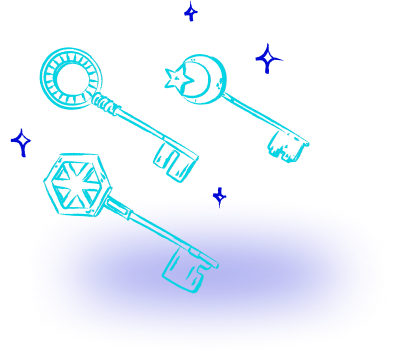
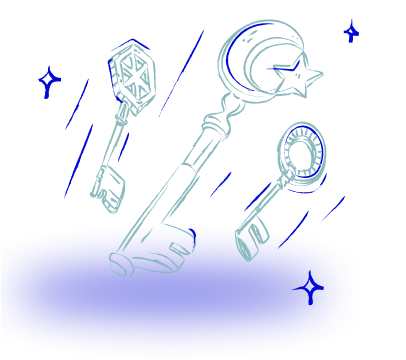
key illustration updated; responsive improves

diff --git a/site/app/page.tsx b/site/app/page.tsx
@@ -61,8 +61,8 @@ export default function Home() {
 
 				{/* <div className="w-full lg:w-4/5 mb-40 m-auto backdrop-blur-md border border-[#30353B] rounded-2xl transform bg-gradient-to-r from-[#3C9AAA]/50 to-transparent transition-all duration-1000 hover:scale-105"> */}
 				<div className="w-full lg:w-4/5 mb-16 md:mb-32 m-auto border border-[#30353B] rounded-2xl transition-all duration-1000 hover:scale-105 backdrop-blur-lg">
-					<div className="w-full flex flex-col-reverse md:flex-row p-6 md:py-16 md:px-16 relative space-x-4 items-center">
-						<div className="w-full md:w-1/2">
+					<div className="w-full flex flex-col-reverse lg:flex-row p-6 md:py-16 md:px-16 relative space-x-4 items-center">
+						<div className="w-full lg:w-1/2">
 							<div className="text-[#DBDBDB] text-xl mb-4">Decentralised</div>
 							<h3 className="text-5xl md:text-7xl font-bold mb-8 text-transparent bg-clip-text bg-gradient-to-r from-[#00D4E5] via-[#15B8DE]">
 								Your Keys, Your Coins
@@ -72,20 +72,20 @@ export default function Home() {
 								self-custody wallet like Metamsk. No need to hold your funds on an exchange.
 							</p>
 						</div>
-						<div className="w-full md:w-1/2 md:self-end">
+						<div className="w-full lg:w-1/2 lg:self-end">
 							<Image className="md:ml-14" src={KeysImage} alt={''} />
 						</div>
 					</div>
 				</div>
 
 				<div className="w-full lg:w-4/5 mb-16 md:mb-32 m-auto backdrop-blur-md border border-[#30353B] rounded-2xl transform bg-gradient-to-l from-transparent to-transparent transition-all duration-1000 hover:scale-105 hover:bg-gradient-to-l">
-					<div className="w-full flex flex-col md:flex-row p-6 md:py-16 md:px-16 relative items-center">
-						<div className="w-full md:w-1/2">
-							<div className="relative md:absolute md:top-20 md:left-10">
+					<div className="w-full flex flex-col lg:flex-row p-6 md:py-16 md:px-16 relative items-center">
+						<div className="w-full lg:w-1/2">
+							<div className="relative flex justify-center lg:absolute lg:top-20 lg:left-10">
 								<Image src={GlobeImage} alt={''} />
 							</div>
 						</div>
-						<div className="w-full md:w-1/2">
+						<div className="w-full lg:w-1/2">
 							<div className="text-[#DBDBDB] text-xl mb-4">Any Place</div>
 							<h3 className="text-5xl md:text-7xl font-bold mb-8 text-transparent bg-clip-text bg-gradient-to-r from-[#00D4E5] via-[#15B8DE]">
 								Global Availability
@@ -99,8 +99,8 @@ export default function Home() {
 				</div>
 
 				<div className="w-full lg:w-4/5 mb-16 md:mb-32 m-auto backdrop-blur-md border border-[#30353B] rounded-2xl transform bg-gradient-to-l from-transparent to-transparent transition-all duration-1000 hover:scale-105 hover:bg-gradient-to-l">
-					<div className="w-full flex flex-col-reverse md:flex-row p-6 md:py-16 md:px-16 relative">
-						<div className="w-full md:w-1/2">
+					<div className="w-full flex flex-col-reverse lg:flex-row p-6 md:py-16 md:px-16 relative">
+						<div className="w-full lg:w-1/2">
 							<div className="text-[#DBDBDB] text-xl mb-4">Any Chain</div>
 							<h3 className="text-5xl md:text-7xl font-bold mb-8 text-transparent bg-clip-text bg-gradient-to-r from-[#00D4E5] via-[#15B8DE]">
 								Multichain Settlement
@@ -111,8 +111,8 @@ export default function Home() {
 								choice.
 							</p>
 						</div>
-						<div className="w-full md:w-1/2">
-							<div className="relative md:absolute md:top-10 md:right-20">
+						<div className="w-full lg:w-1/2">
+							<div className="relative flex justify-center lg:absolute lg:top-10 lg:right-20">
 								<Image src={NoChainImage} alt={''} />
 							</div>
 						</div>
@@ -121,7 +121,7 @@ export default function Home() {
 
 				<Partners />
 
-				<div className="flex flex-col justify-around mx-2 md:mx-8 md:space-x-8 md:flex-row mb-24">
+				<div className="flex flex-col justify-around mx-2 lg:mx-8 lg:space-x-8 lg:flex-row mb-24">
 					{[
 						{
 							title: 'P2P Merchants',
@@ -149,7 +149,7 @@ export default function Home() {
 					))}
 				</div>
 
-				<div className="w-full md:w-2/3 m-auto flex flex-col md:flex-row items-center justify-center mb-24 md:space-x-10 bg-gradient-to-r from-[#020AD4]/50 to-transparent p-8 rounded-xl">
+				<div className="w-full lg:w-2/3 m-auto flex flex-col lg:flex-row items-center justify-center mb-24 md:space-x-10 bg-gradient-to-r from-[#020AD4]/50 to-transparent p-8 rounded-xl">
 					<div className="text-center space-x-4 text-2xl mb-10 pt-6">
 						Buy crypto directly to your wallet from your <br className="hidden md:block" /> bank account
 						with zero-fees.
